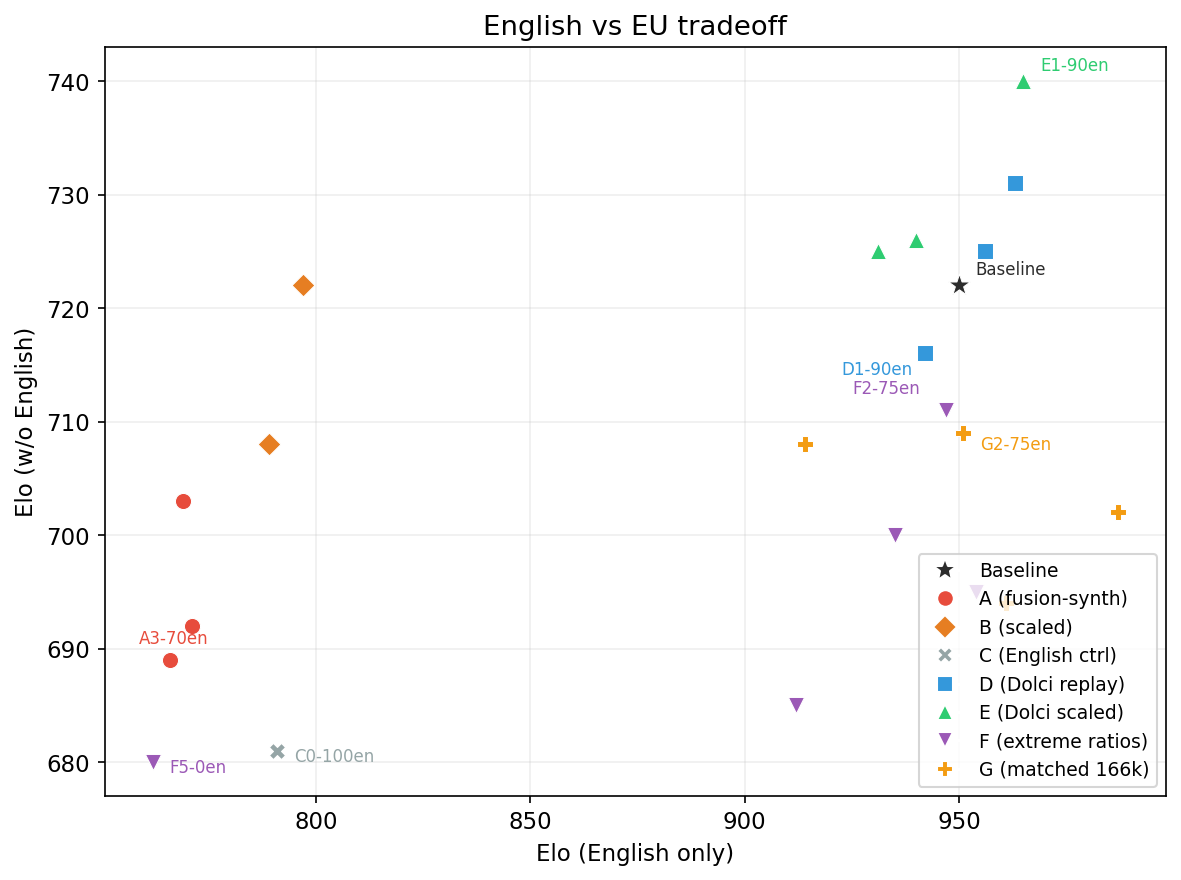
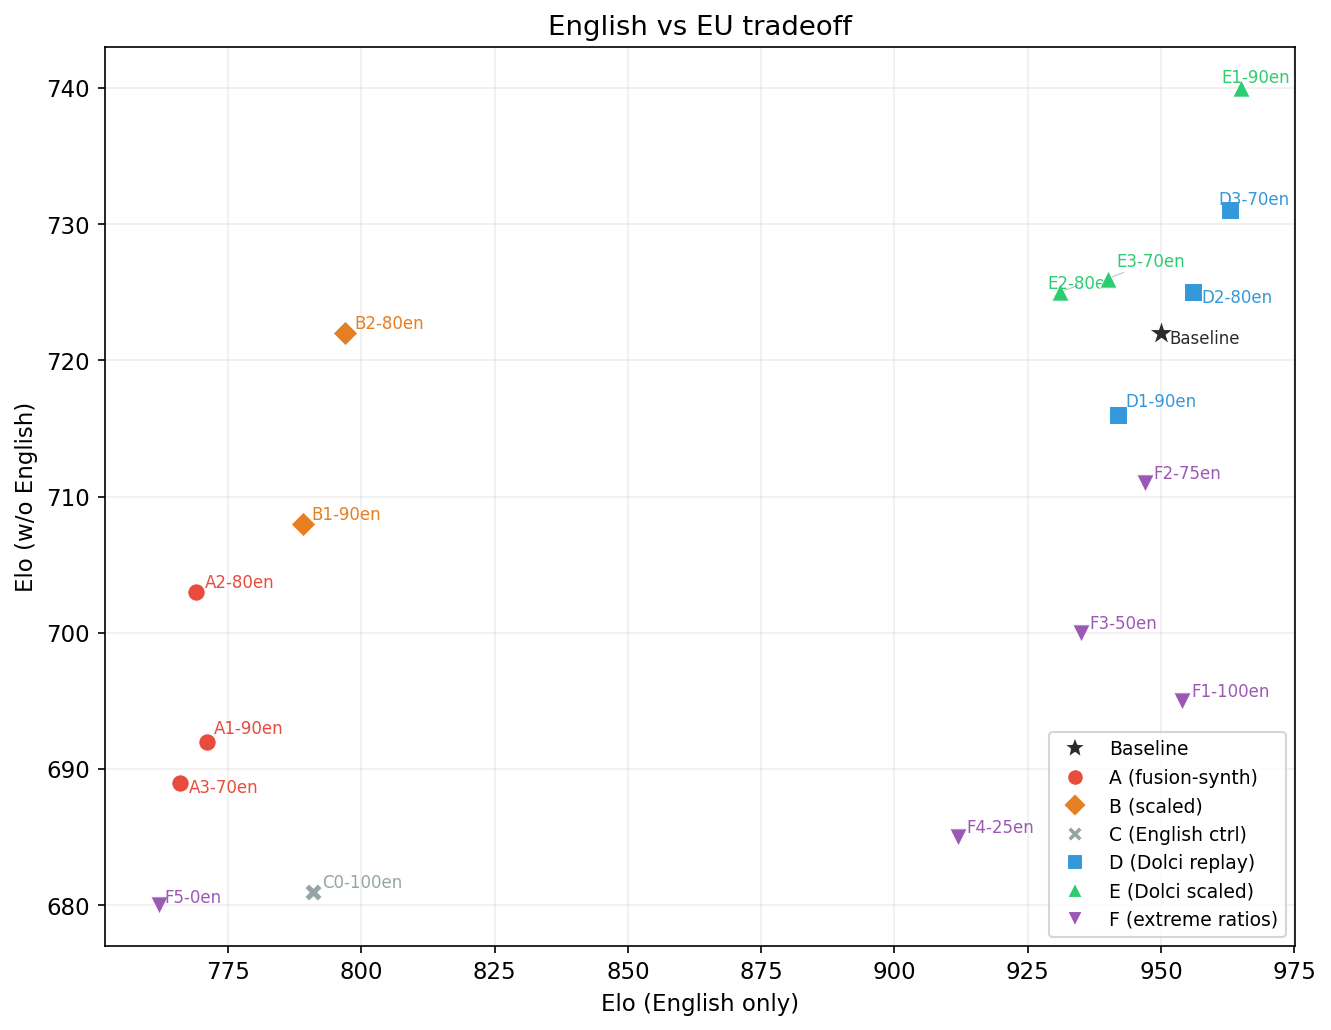
Label all points in tradeoff scatter, remove G-track

diff --git a/oellm/experiments/multilingual_eu/results/plots/plot_fg_results.py b/oellm/experiments/multilingual_eu/results/plots/plot_fg_results.py
@@ -148,20 +148,22 @@ plt.close()
 # Plot 2: English vs EU tradeoff scatter
 # ============================================================
 
-fig, ax = plt.subplots(figsize=(8, 6))
+fig, ax = plt.subplots(figsize=(9, 7))
+
+from adjustText import adjust_text
+texts = []
 
 for name, d in ALL_MODELS.items():
     track = d["track"]
+    if track == "G":
+        continue  # skip G-track
     color = TRACK_COLORS[track]
-    marker = {"Baseline": "*", "A": "o", "B": "D", "C": "X", "D": "s", "E": "^", "F": "v", "G": "P"}[track]
-    size = 120 if track == "Baseline" else 60
+    marker = {"Baseline": "*", "A": "o", "B": "D", "C": "X", "D": "s", "E": "^", "F": "v"}[track]
+    size = 150 if track == "Baseline" else 70
     ax.scatter(d["en"], d["woen"], c=color, marker=marker, s=size, zorder=3, edgecolors="white", linewidth=0.5)
-    # Label select models
-    if name in ["Baseline", "F5-0en", "E1-90en", "F2-75en", "G2-75en", "C0-100en", "A3-70en", "D1-90en"]:
-        offset = {"Baseline": (8, 5), "F5-0en": (8, -5), "E1-90en": (8, 5), "F2-75en": (-45, 8),
-                  "G2-75en": (8, -8), "C0-100en": (8, -5), "A3-70en": (-15, 8), "D1-90en": (-40, -10)}
-        ax.annotate(name, (d["en"], d["woen"]), textcoords="offset points",
-                    xytext=offset.get(name, (8, 5)), fontsize=8, color=color)
+    texts.append(ax.text(d["en"], d["woen"], name, fontsize=8, color=color))
+
+adjust_text(texts, arrowprops=dict(arrowstyle="-", color="gray", lw=0.5, alpha=0.5))
 
 # Legend for tracks
 from matplotlib.lines import Line2D
@@ -173,7 +175,6 @@ legend_elements = [
     Line2D([0], [0], marker="s", color="w", markerfacecolor=TRACK_COLORS["D"], markersize=8, label="D (Dolci replay)"),
     Line2D([0], [0], marker="^", color="w", markerfacecolor=TRACK_COLORS["E"], markersize=8, label="E (Dolci scaled)"),
     Line2D([0], [0], marker="v", color="w", markerfacecolor=TRACK_COLORS["F"], markersize=8, label="F (extreme ratios)"),
-    Line2D([0], [0], marker="P", color="w", markerfacecolor=TRACK_COLORS["G"], markersize=8, label="G (matched 166k)"),
 ]
 ax.legend(handles=legend_elements, fontsize=9, loc="lower right")
 
